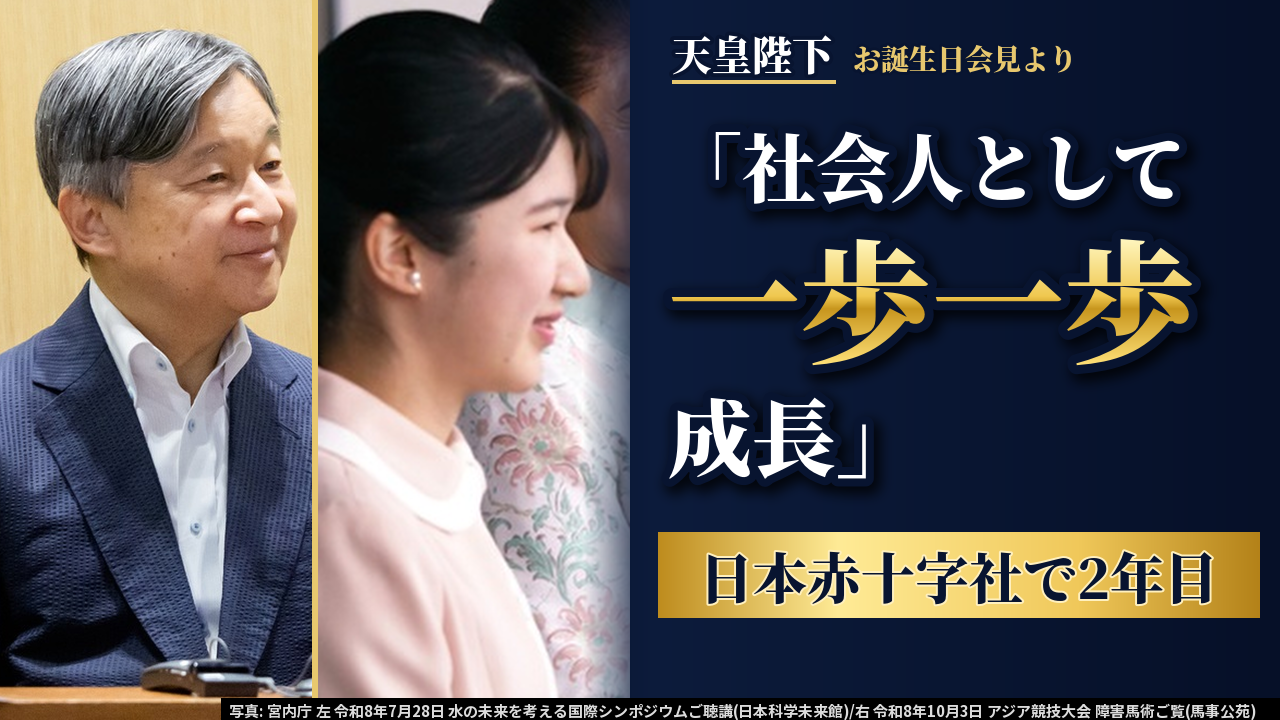
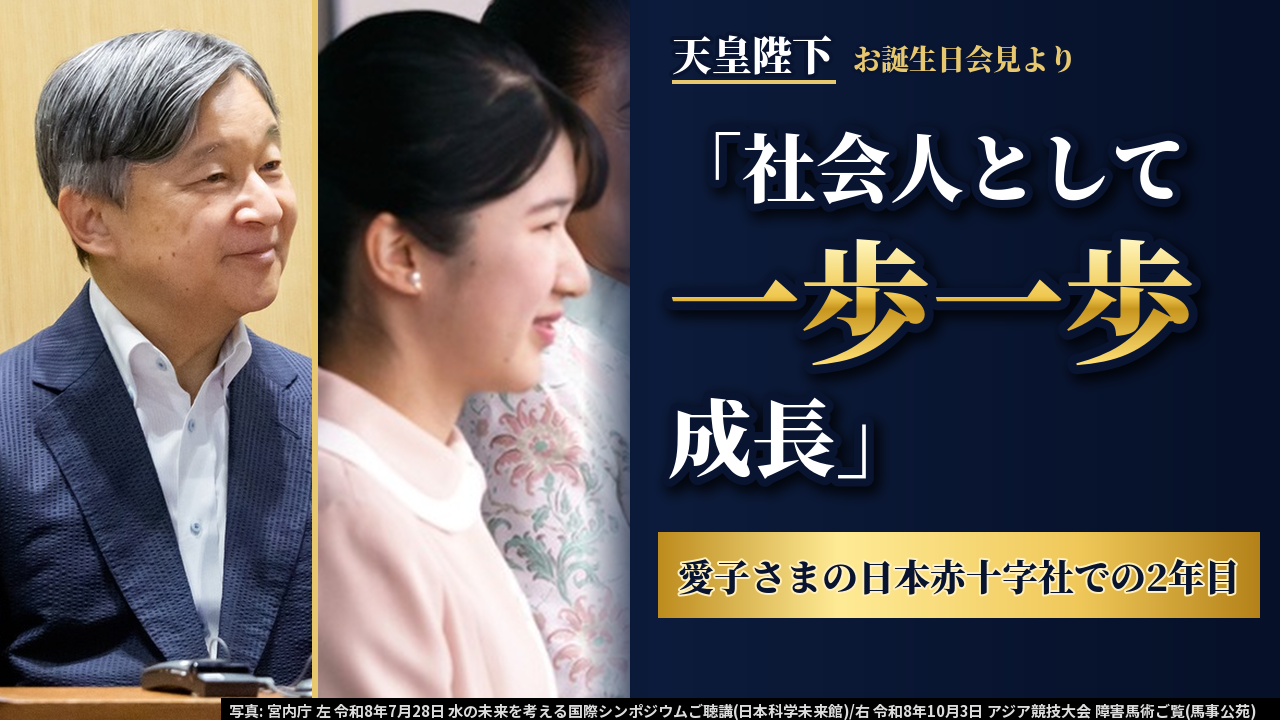
R1 表紙Bの帯「愛子さまの日本赤十字社での2年目」(荒木指示)
Claude-Session: https://claude.ai/code/session_01BJaPieHBuTRAAQkfULpzEX

Changed region(s): [[0.5312, 0.7639, 0.9688, 0.8556]]

diff --git a/projects/KB-20261125-05/thumb/make_thumbs.py b/projects/KB-20261125-05/thumb/make_thumbs.py
@@ -14,7 +14,7 @@ python3 projects/KB-20261125-05/thumb/make_thumbs.py で thumb_A.png・thumb_B.p
       お二人がはっきり写るように(荒木指摘 2026-11-25「表紙Bに陛下の画像がない」)。左=天皇陛下お一人 A160(令和8年7月28日
       水の未来を考える国際シンポジウムご聴講・口を閉じた笑顔。左右の隣席の方は切り抜きで外す)、右=愛子さまお一人 A159(令和8年10月3日
       アジア競技大会 障害馬術ご覧から愛子さまのお顔中心に切り抜き。皇族方以外は入れない。右端に皇后陛下が少し入る)。お顔の大きさをそろえる。
-      タイトルは「右」(横書き3行): 「社会人として/一歩一歩(金・最大)/成長」＋金の帯「日本赤十字社で2年目」  2か所・22字
+      タイトルは「右」(横書き3行): 「社会人として/一歩一歩(金・最大)/成長」＋金の帯「愛子さまの日本赤十字社での2年目」(荒木指示 2026-11-25)  2か所・22字
   C(題名C・ご一家)= 写真1枚いっぱい(3名・寄り・帯なし)。令和8年 新年のご一家のご近影 A012(陛下が中央・左 雅子さま・右 愛子さま)。
       タイトルは「下」(横書き1行): 「愛子と3人で過ごす時間」(金の大きな「3人」)。左上に 天皇ご一家の1年  2か所・19字
   過去の長尺の表紙(KB-20261125-01: A=型D上の帯/B=写真右・文字左/C=写真左・右の縦書き、KB-20261124-01: 型D×3)とも並べて見比べた。
@@ -136,7 +136,7 @@ def make_B(out):
     b2 = line(im, X, 352, [("一歩一歩", 132, "gold")])
     b3 = line(im, X, 470, [("成長」", 84, "white")])
     band = (X - 10, 532, W - 20, 618)
-    gold_band(im, band, "日本赤十字社で2年目", 54)
+    gold_band(im, band, "愛子さまの日本赤十字社での2年目", 54)
     tboxes = [wb, union([b1, b2, b3]), band]
     for tb in tboxes:
         if tb[0] < 640 or tb[2] > W - 8:

diff --git a/projects/KB-20261125-05/fixes.md b/projects/KB-20261125-05/fixes.md
@@ -47,3 +47,4 @@
 - 等分にした 004・016・019・038・039 は、写真の切り替えが字幕の区切りから最大1秒ほどずれる
 - facts.md への追記(電力館・バーシーセレモニー・晩餐会・シェントーン寺院。rules_check 直し7)は事実確認係の担当で、手を付けていない
 - 競合の文字起こしとの照合、公式映像の利用可否、提供表記のある写真の扱いは元のまま
+- 2026-11-25 荒木さん: 表紙Bの帯を「愛子さまの日本赤十字社での2年目」に(進行役の推奨案。荒木さんの文言「愛子の…」は陛下のお言葉に見えて原文にないため敬称付きに)
